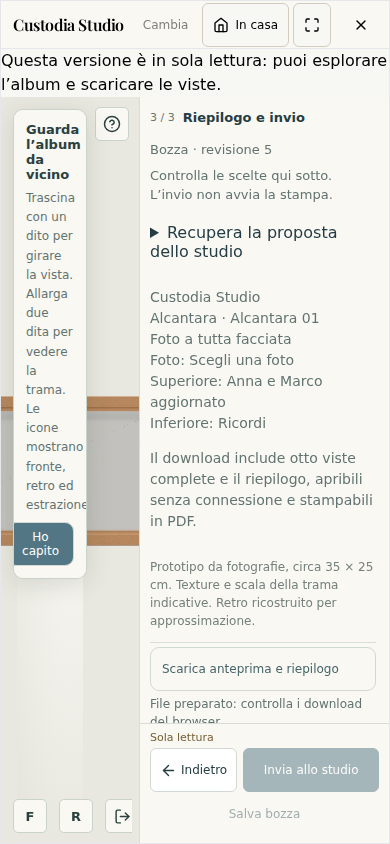
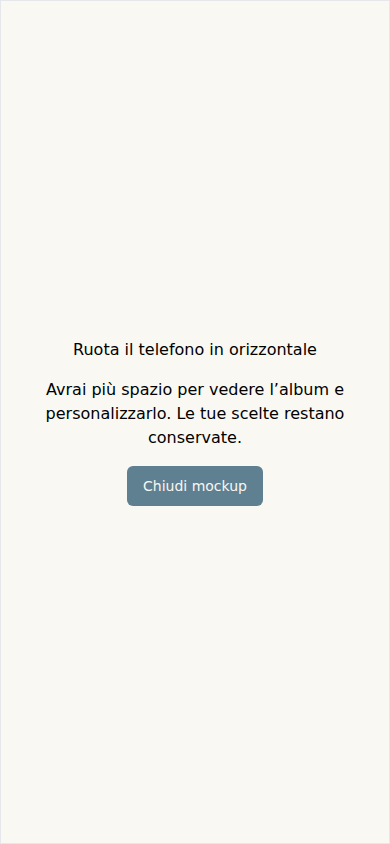
Verify post-print mockup downloads across all customer renderers
Replit-Task-Id: d951aa76-9077-4651-a417-b51abb6ac2d1
Replit-Merge-Attempt: MergeTask:d951aa76-9077-4651-a417-b51abb6ac2d1:1:327fefb2

diff --git a/client/public/mockups/export-yield.js b/client/public/mockups/export-yield.js
@@ -44,5 +44,7 @@ export function triggerDownload(url, filename) {
   link.download = filename;
   downloadDocument.body.append(link);
   link.click();
-  link.remove();
+  // Under a busy WebGL export Chromium can observe the click after this
+  // function returns; keep the parent anchor alive until the download starts.
+  setTimeout(() => link.remove(), 1000);
 }

diff --git a/.agents/memory/mockup-download-headless-rendering.md b/.agents/memory/mockup-download-headless-rendering.md
@@ -22,3 +22,15 @@ positive.
 **How to apply:** Run the real-GPU mode on a machine with a visible browser/display and hardware
 WebGL. In a headless or GPU-less runner, an unavailable viewer is an expected explicit failure,
 not evidence for the 1600×1200 path.
+
+The rotating viewers are separate export contracts: their reports embed JPEG previews, while the custodia report embeds PNG previews. A browser gate covering all rotating revisions must disable module caching between variants and provide any revision-local module imported through the shared fixture URL.
+
+**Why:** reusing the iframe module can execute the previous revision, and assuming PNG-only output or a shared local import makes a passing viewer look broken (or skips the requested renderer).
+
+**How to apply:** when extending the lifecycle harness, execute each viewer source explicitly, validate its own eight labels and JPEG/PNG dimensions, and keep the print-lock save rejection in every iteration.
+
+Keep the parent download anchor mounted briefly after triggering it; immediate removal can race Chromium's download detection during a busy WebGL export.
+
+**Why:** the same-origin parent trigger fixes iframe sandbox restrictions, but a synchronous remove can still lose the download event under load.
+
+**How to apply:** use a short delayed cleanup for generated anchors and keep the browser gate watching the actual download event.
